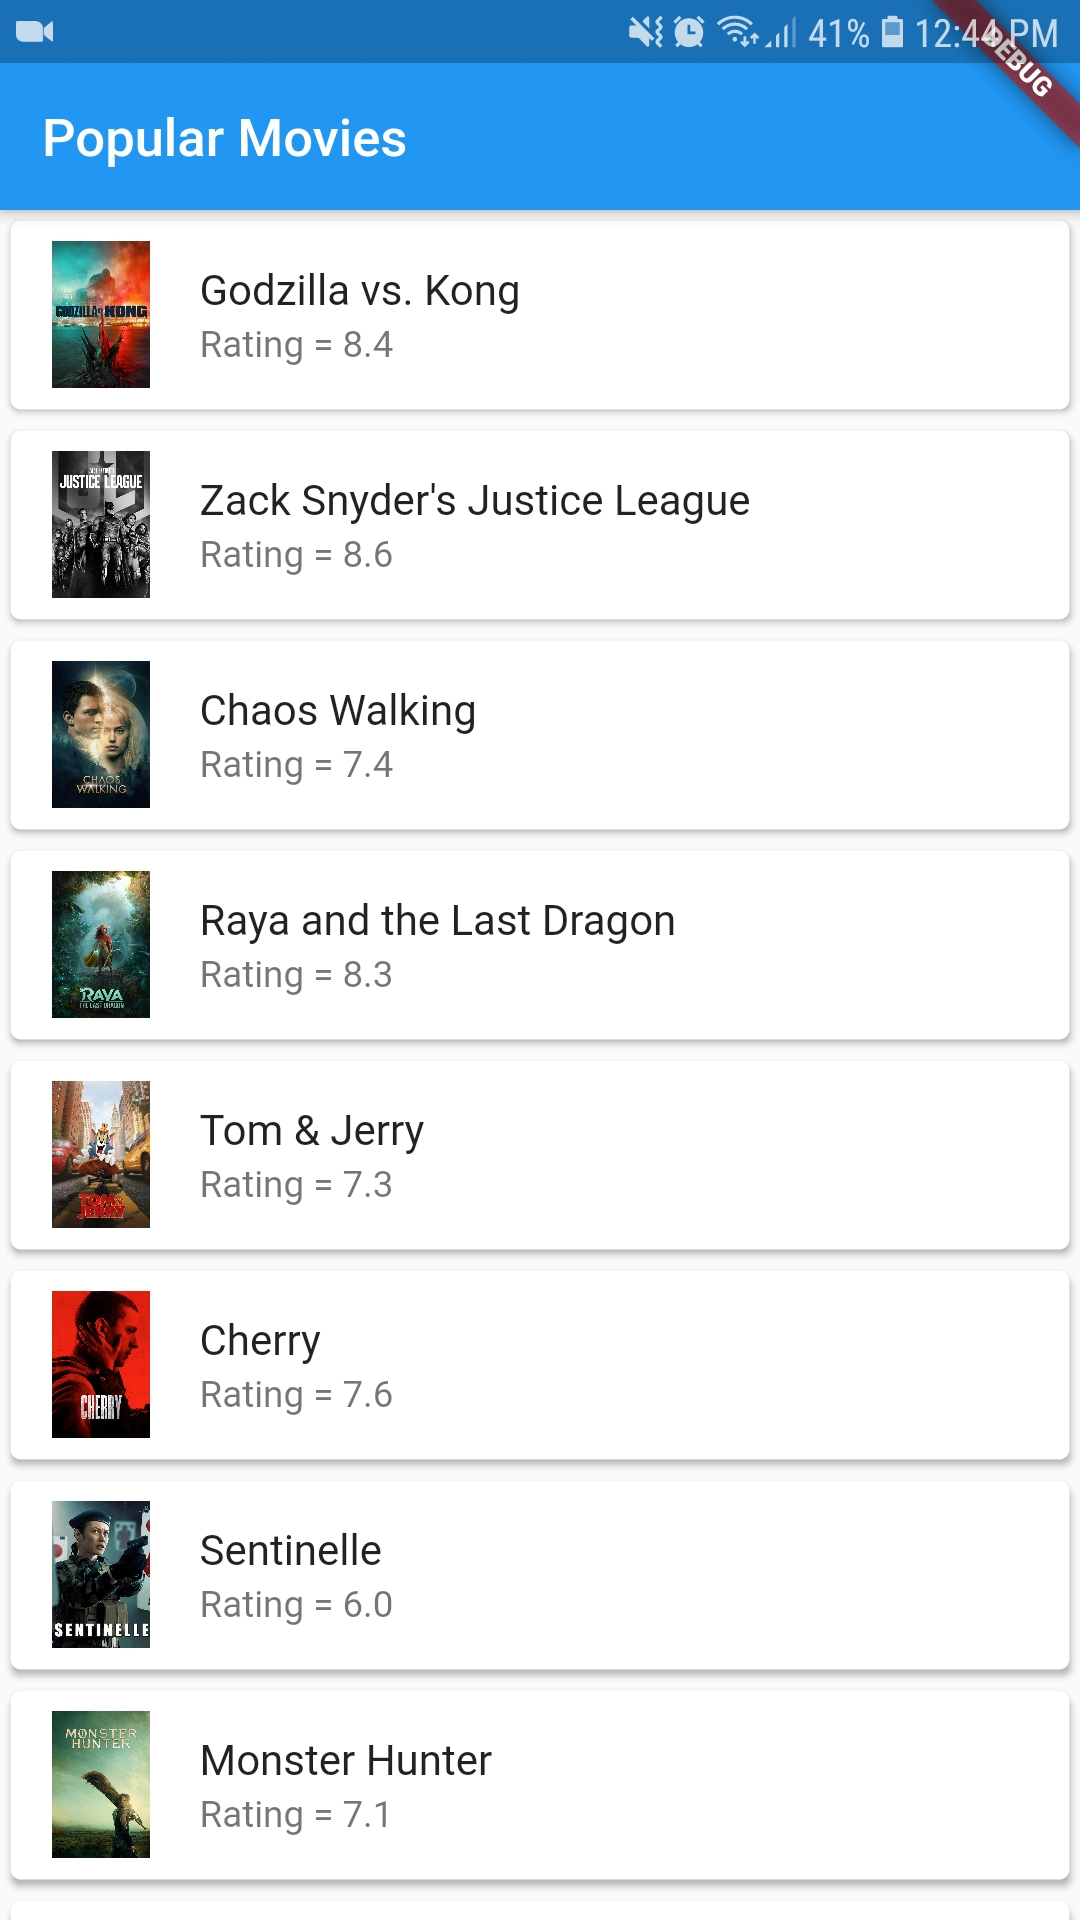
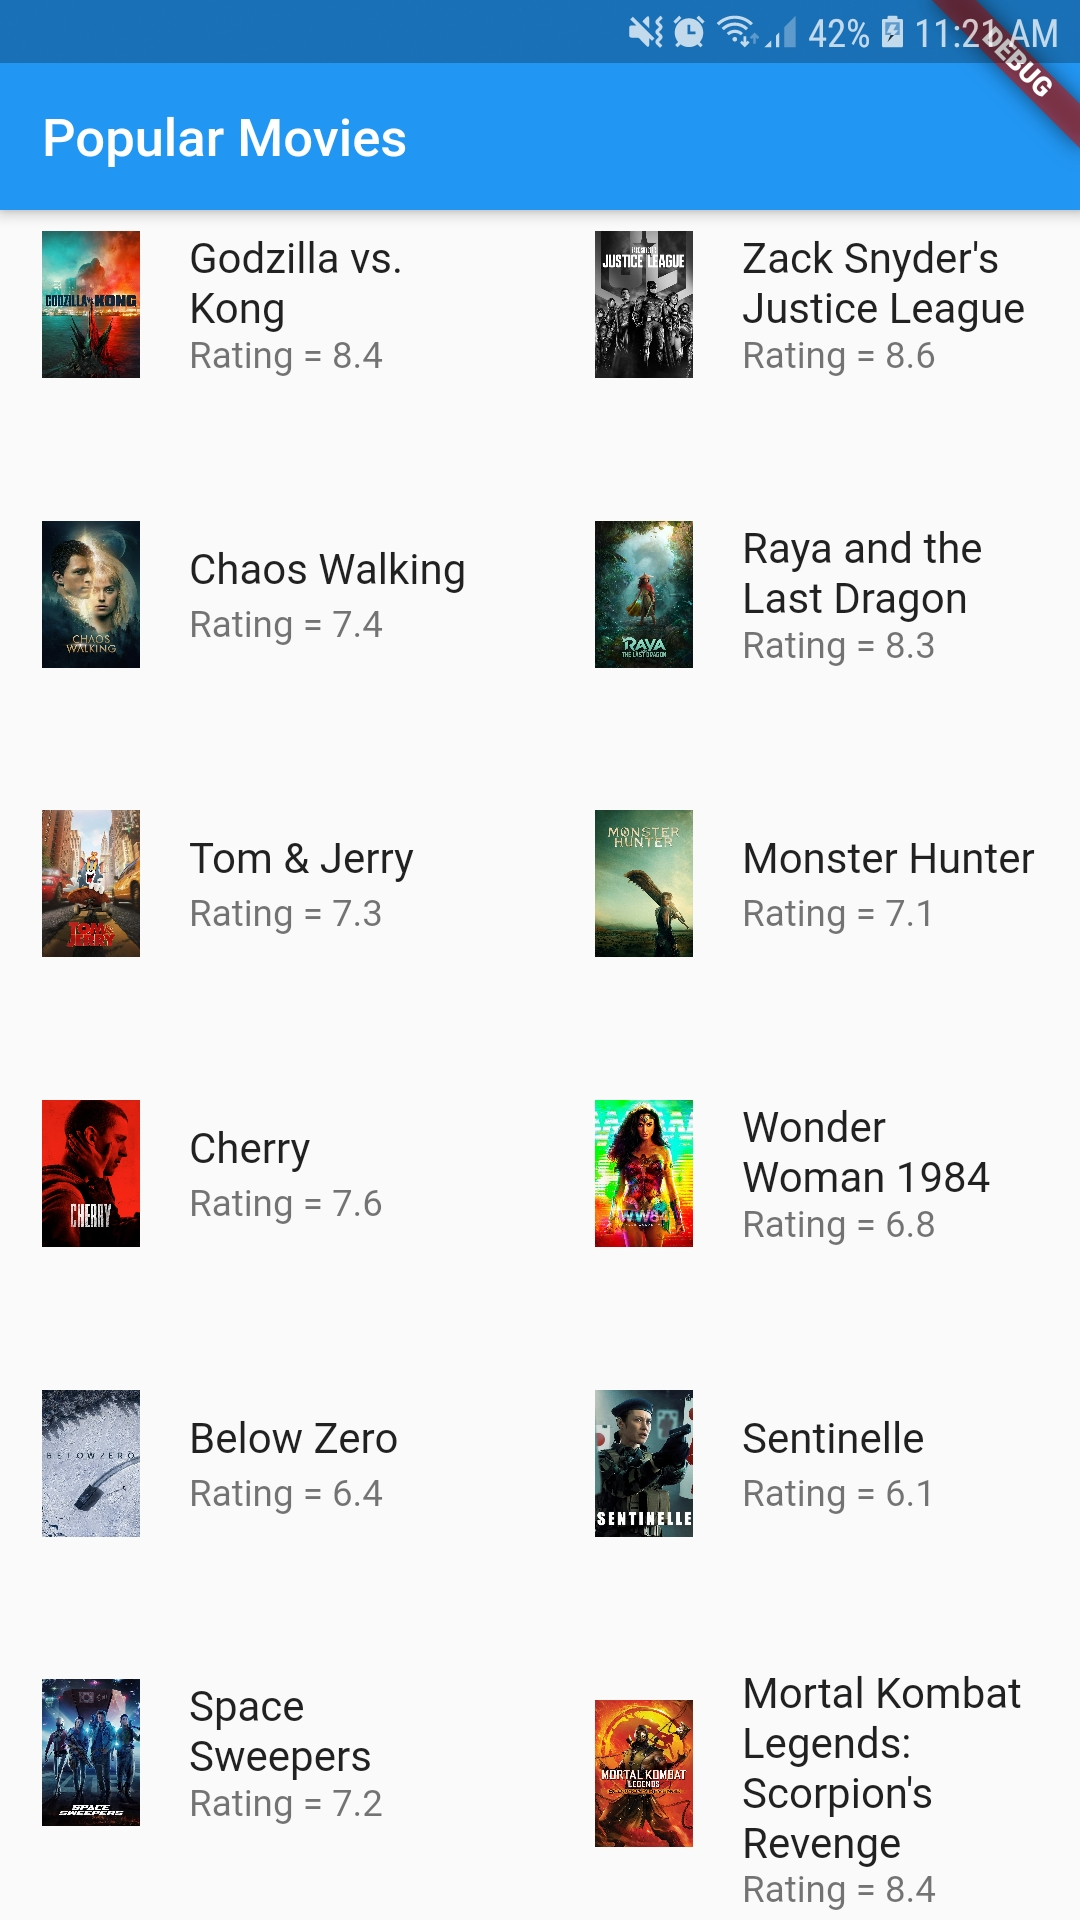
Tampilan

diff --git a/lib/pages/movie_list.dart b/lib/pages/movie_list.dart
@@ -8,6 +8,7 @@ class MovieList extends StatefulWidget {
 }
 
 class _MovieListState extends State<MovieList> {
+  String imgPath = 'https://image.tmdb.org/t/p/w500/';
   int moviesCount;
   List movies;
   HttpService service;
@@ -35,13 +36,20 @@ class _MovieListState extends State<MovieList> {
         appBar: AppBar(
           title: Text("Popular Movies"),
         ),
-        body: ListView.builder(
+        body: GridView.builder(
           itemCount: (this.moviesCount == null) ? 0 : this.moviesCount,
+          gridDelegate: new SliverGridDelegateWithFixedCrossAxisCount(
+            crossAxisCount: 2,
+            childAspectRatio: 2,
+            mainAxisSpacing: 10.0,
+            crossAxisSpacing: 10.0,
+            
+          ),
           itemBuilder: (context, int position) {
-            return Card(
-              color: Colors.white,
-              elevation: 2.0,
-              child: ListTile(
+            return GridTile(
+              child: InkResponse(
+                enableFeedback: true,
+                child: ListTile(
                 leading: Image.network(
                         'https://www.themoviedb.org/t/p/w600_and_h900_bestv2/' +
                             movies[position].posterPath),
@@ -55,6 +63,7 @@ class _MovieListState extends State<MovieList> {
                       Navigator.push(context, route);
                 },
               ),
+              )
             );
           },
         )
